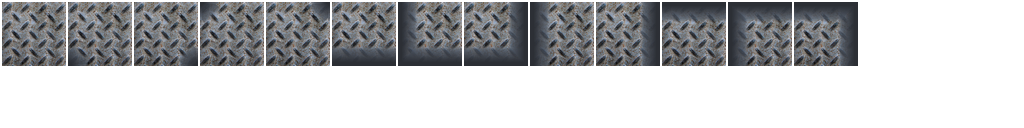
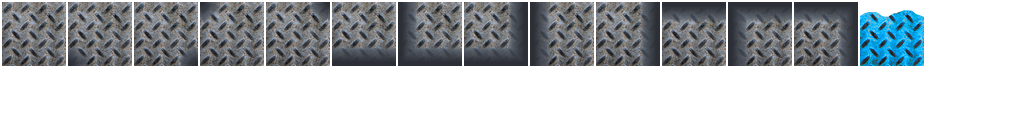
Add iceblock

Changed region(s): [[0.8125, 0.0625, 0.9062, 0.5312]]

diff --git a/core/src/com/flaiker/zero/assetpipeline/AssetBuilder.java b/core/src/com/flaiker/zero/assetpipeline/AssetBuilder.java
@@ -51,23 +51,26 @@ public class AssetBuilder {
         // Overlay each block with all overlays and save them to temporary directory
         for (BlockWrapper block : blocks) {
             FileHandle blockImage = new FileHandle(BLOCK_PATH + "/" + String.format("%02d", block.blockMetadata.id) +
-                                                   "-" + block.blockMetadata.name + ".png");
+                    "-" + block.blockMetadata.name + ".png");
             if (!blockImage.exists() || blockImage.isDirectory()) continue;
-
-            final Pixmap pixmap = new Pixmap(blockImage);
-            PixmapIO.writePNG(Gdx.files.local(BLOCK_OUTPUT_PATH + "/" + String.format("%02d", block.blockMetadata.id) +
-                                              "-" + block.blockMetadata.name + "-b.png"),
-                              pixmap);
-            overlays.forEach((name, overlay) -> {
-                Pixmap.setBlending(Pixmap.Blending.SourceOver);
-                Pixmap newPixmap = new Pixmap(pixmap.getWidth(), pixmap.getHeight(), Pixmap.Format.RGBA8888);
-                newPixmap.drawPixmap(pixmap, 0, 0);
-                newPixmap.drawPixmap(overlay, 0, 0);
-                PixmapIO.writePNG(Gdx.files.local(BLOCK_OUTPUT_PATH + "/" +
-                                                  String.format("%02d", block.blockMetadata.id) + "-" +
-                                                  block.blockMetadata.name + "-" + name + ".png"),
-                                  newPixmap);
-            });
+            if (block.blockMetadata.edged) {
+                final Pixmap pixmap = new Pixmap(blockImage);
+                PixmapIO.writePNG(Gdx.files.local(BLOCK_OUTPUT_PATH + "/" + String.format("%02d", block.blockMetadata.id) +
+                                "-" + block.blockMetadata.name + "-b.png"),
+                        pixmap);
+                overlays.forEach((name, overlay) -> {
+                    Pixmap.setBlending(Pixmap.Blending.SourceOver);
+                    Pixmap newPixmap = new Pixmap(pixmap.getWidth(), pixmap.getHeight(), Pixmap.Format.RGBA8888);
+                    newPixmap.drawPixmap(pixmap, 0, 0);
+                    newPixmap.drawPixmap(overlay, 0, 0);
+                    PixmapIO.writePNG(Gdx.files.local(BLOCK_OUTPUT_PATH + "/" +
+                                    String.format("%02d", block.blockMetadata.id) + "-" +
+                                    block.blockMetadata.name + "-" + name + ".png"),
+                            newPixmap);
+                });
+            } else {
+                blockImage.copyTo(new FileHandle(BLOCK_OUTPUT_PATH + "/" + blockImage.name()));
+            }
         }
     }
 

diff --git a/core/src/com/flaiker/zero/assetpipeline/tileset/algorithms/BlocksAlgorithm.java b/core/src/com/flaiker/zero/assetpipeline/tileset/algorithms/BlocksAlgorithm.java
@@ -18,11 +18,13 @@ public class BlocksAlgorithm implements TilepropertiesWriter {
     @Override
     public void write(TextureAtlas.TextureAtlasData data, XmlWriter writer) throws IOException {
         Pattern pattern = Pattern.compile("^(?<id>\\d\\d)-(?<mat>\\S*)-(?<dir>\\S*)$");
+        Pattern patternWithoutEdges = Pattern.compile("^(?<id>\\d\\d)-(?<mat>\\S*)$");
 
         int atlasId = 0;
 
         for (TextureAtlas.TextureAtlasData.Region region : data.getRegions()) {
             Matcher matcher = pattern.matcher(region.name);
+            Matcher matcher2 = patternWithoutEdges.matcher(region.name);
             if (matcher.find()) {
                 String id = matcher.group("id");
                 String name = matcher.group("mat");
@@ -39,6 +41,24 @@ public class BlocksAlgorithm implements TilepropertiesWriter {
                         writer.pop();
                         writer.element("property").attribute("name", "direction")
                                                   .attribute("value", direction);
+                        writer.pop();
+                    writer.pop();
+                writer.pop();
+                // @formatter:on
+
+                atlasId++;
+            } else if (matcher2.find()) {
+                String id = matcher2.group("id");
+                String name = matcher2.group("mat");
+
+                // @formatter:off
+                writer.element("tile").attribute("id", atlasId);
+                    writer.element("properties");
+                        writer.element("property").attribute("name", "name")
+                                                  .attribute("value", name);
+                        writer.pop();
+                        writer.element("property").attribute("name", "id")
+                                                  .attribute("value", id);
                         writer.pop();
                     writer.pop();
                 writer.pop();

diff --git a/core/src/com/flaiker/zero/blocks/IceBlock.java b/core/src/com/flaiker/zero/blocks/IceBlock.java
@@ -1,29 +1,18 @@
-/******************************************************************************
- * Copyright 2016 Fabian Lupa                                                 *
- ******************************************************************************/
-
 package com.flaiker.zero.blocks;
 
-import com.badlogic.gdx.graphics.g2d.TextureAtlas;
 import com.badlogic.gdx.math.Vector2;
 import com.badlogic.gdx.physics.box2d.*;
-import com.flaiker.zero.box2d.AbstractBox2dObject;
+import com.flaiker.zero.tiles.RegistrableBlock;
 
-/**
- * Base class for blocks
- * <p>
- * Blocks are static game object oriented in tiles. To be loaded from a map and accounted for in asset generation they
- * may be annotated with {@link com.flaiker.zero.tiles.RegistrableBlock}.
- */
-public abstract class AbstractBlock extends AbstractBox2dObject {
-    private static TextureAtlas blockTextureAtlas = new TextureAtlas("atlases/blocks.atlas");
+@RegistrableBlock(id = 2, name = "ice")
+public class IceBlock extends AbstractBlock {
+    public static final float DENSITY     = 100f;
+    public static final float FRICTION    = 0.2f;
+    public static final float RESTITUTION = 0f;
 
-    private static final float DENSITY     = 100f;
-    private static final float FRICTION    = 3f;
-    private static final float RESTITUTION = 0f;
-
-    public AbstractBlock() {
-        super(blockTextureAtlas);
+    @Override
+    protected String getAtlasPath() {
+        return "02-ice";
     }
 
     @Override

diff --git a/core/src/com/flaiker/zero/entities/Player.java b/core/src/com/flaiker/zero/entities/Player.java
@@ -126,6 +126,12 @@ public class Player extends AbstractLivingEntity implements InputProcessor, Cons
         super.update(delta);
         animationManager.updateSprite();
         animationManager.updateAnimationFrameDuration("walk", 0.3f / Math.abs(body.getLinearVelocity().x));
+
+        if (body.getLinearVelocity().x > 0)
+            animationManager.runAnimation("walk", AnimationManager.AnimationDirection.RIGHT);
+        else if (body.getLinearVelocity().x < 0)
+            animationManager.runAnimation("walk", AnimationManager.AnimationDirection.LEFT);
+        else animationManager.stopAnimation();
     }
 
     @Override
@@ -139,7 +145,7 @@ public class Player extends AbstractLivingEntity implements InputProcessor, Cons
                 animationManager.runAnimation("walk", AnimationManager.AnimationDirection.RIGHT);
                 break;
             case NONE:
-                animationManager.stopAnimation();
+                if (body.getLinearVelocity().x == 0) animationManager.stopAnimation();
                 break;
         }
 

diff --git a/core/src/com/flaiker/zero/entities/AbstractLivingEntity.java b/core/src/com/flaiker/zero/entities/AbstractLivingEntity.java
@@ -38,14 +38,14 @@ public abstract class AbstractLivingEntity extends AbstractEntity {
                     body.setLinearVelocity(-getMaxSpeedX(), body.getLinearVelocity().y);
                 break;
             case NONE:
-                if (body.getLinearVelocity().x > 0) {
+                /*if (body.getLinearVelocity().x > 0) {
                     body.applyForceToCenter(-getAccelerationX(), 0f, true);
                     if (lastLinearVelocityX < 0) body.setLinearVelocity(0, body.getLinearVelocity().y);
                 } else if (body.getLinearVelocity().x < 0) {
                     body.applyForceToCenter(getAccelerationX(), 0f, true);
                     if (lastLinearVelocityX > 0) body.setLinearVelocity(0, body.getLinearVelocity().y);
                 }
-                lastLinearVelocityX = body.getLinearVelocity().x;
+                lastLinearVelocityX = body.getLinearVelocity().x;*/
                 break;
         }
     }
